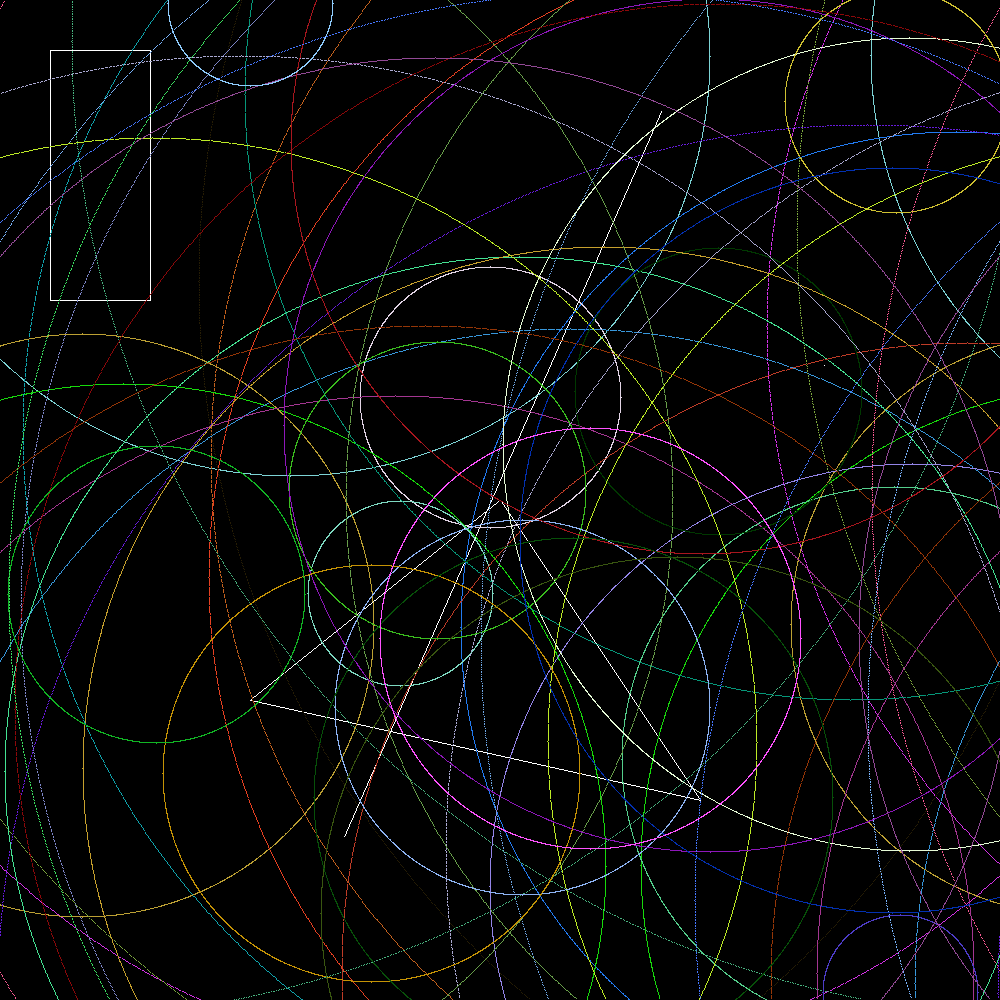
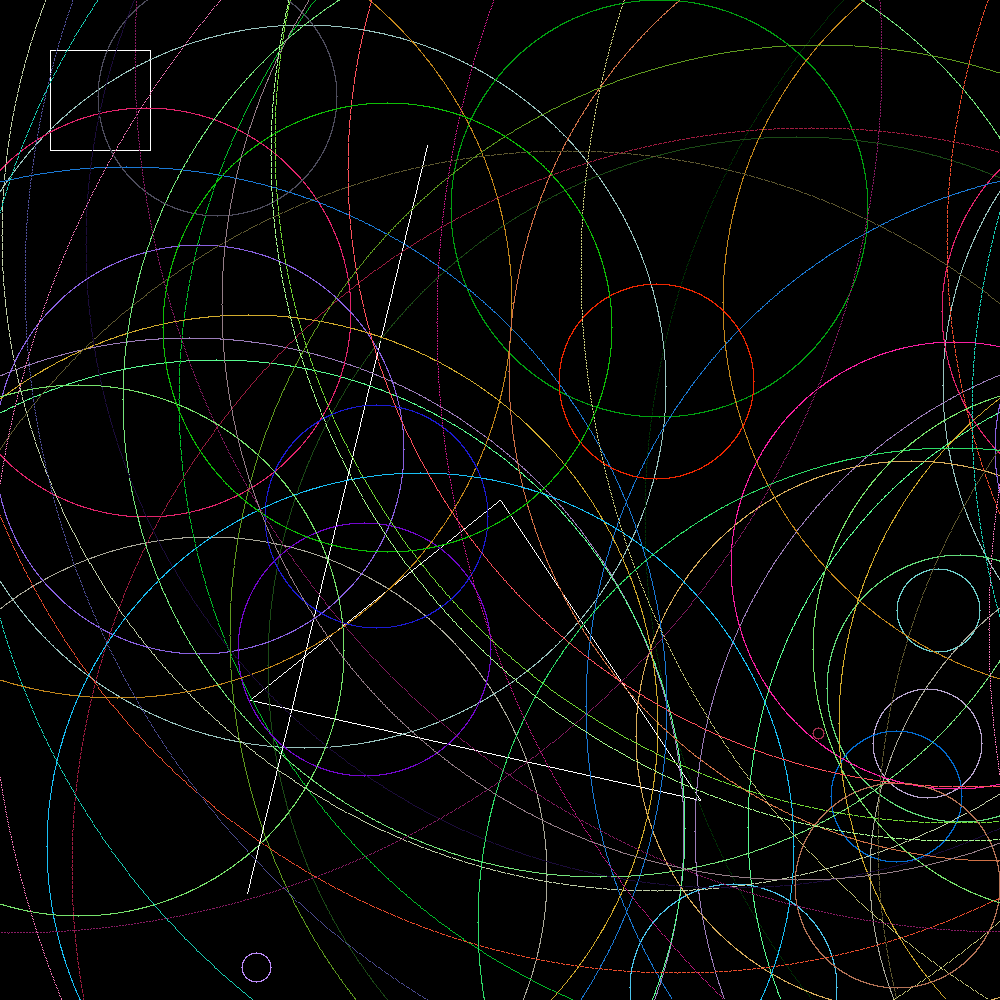
finalised drawing

diff --git a/drawing/src/geometrical_shapes.rs b/drawing/src/geometrical_shapes.rs
@@ -244,19 +244,22 @@ impl Drawable for Rectangle {
         let mut y0 = self.point_a.x;
         let mut y1 = self.point_b.y;
 
-        let is_sqaure = (x1 - x0) == (y1 - y0);
-        if is_sqaure{
-            // x1 = x1*2;
-            if y0 != 0{
-                y0 = y0 * 2;
-            }else if y1 > 0{
-                y1 = y1*2;
-            }else if x1 != 0{
-                x1 = x1*2;
-            }else{
-                x0 = x0 * 2;
-            }
-        }
+         
+        // check if it's a square and changes either length or side to make it look like a rectangle we
+        // are all familiar with. However, a square is a special kind of rectangle.
+        // let is_sqaure = (x1 - x0) == (y1 - y0);
+        // if is_sqaure{
+        //     // x1 = x1*2;
+        //     if y0 != 0{
+        //         y0 = y0 * 2;
+        //     }else if y1 > 0{
+        //         y1 = y1*2;
+        //     }else if x1 != 0{
+        //         x1 = x1*2;
+        //     }else{
+        //         x0 = x0 * 2;
+        //     }
+        // }
         let point_a = Point { x: x0, y: y0 };
         let point_b = Point { x: x1, y: y1 };
         let point_ab = Point { x: x0, y: y1 };
